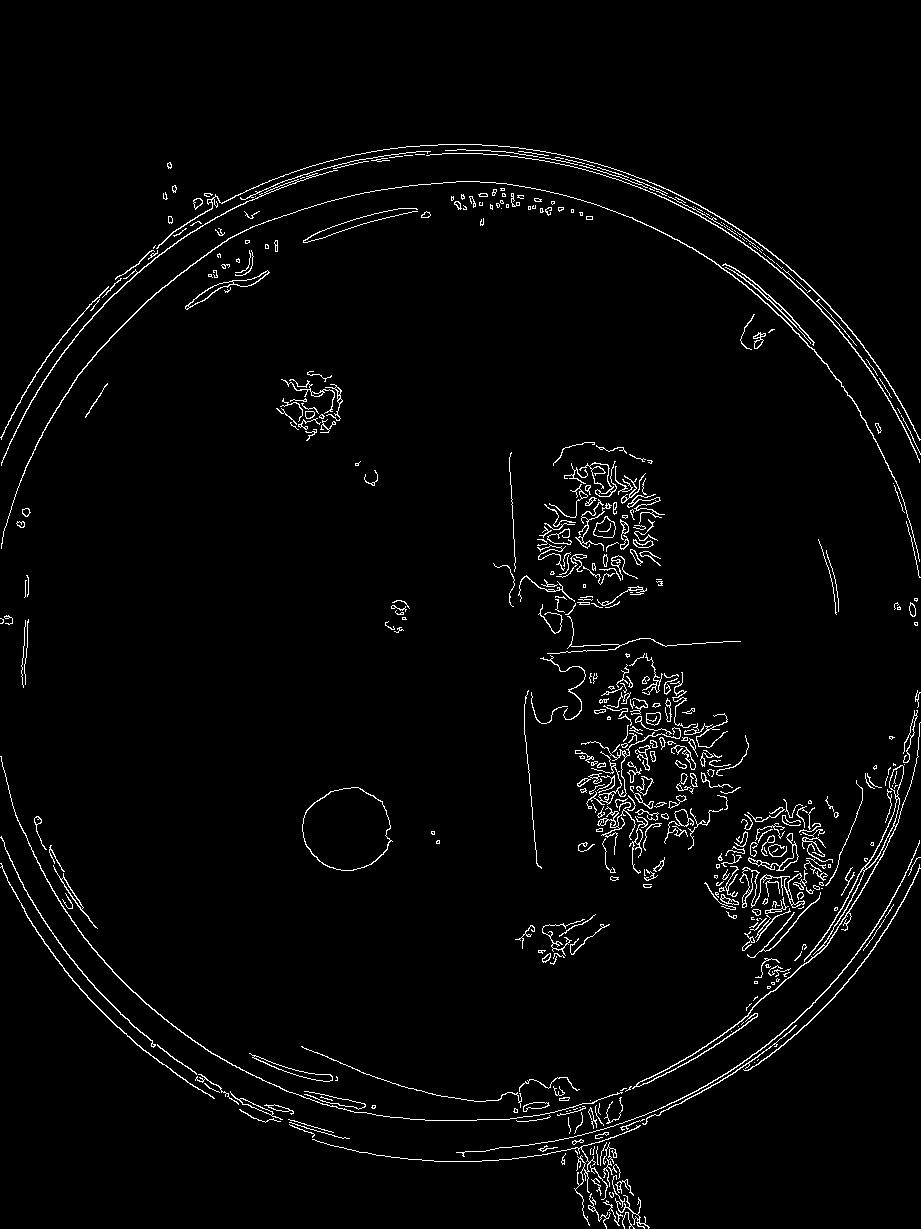
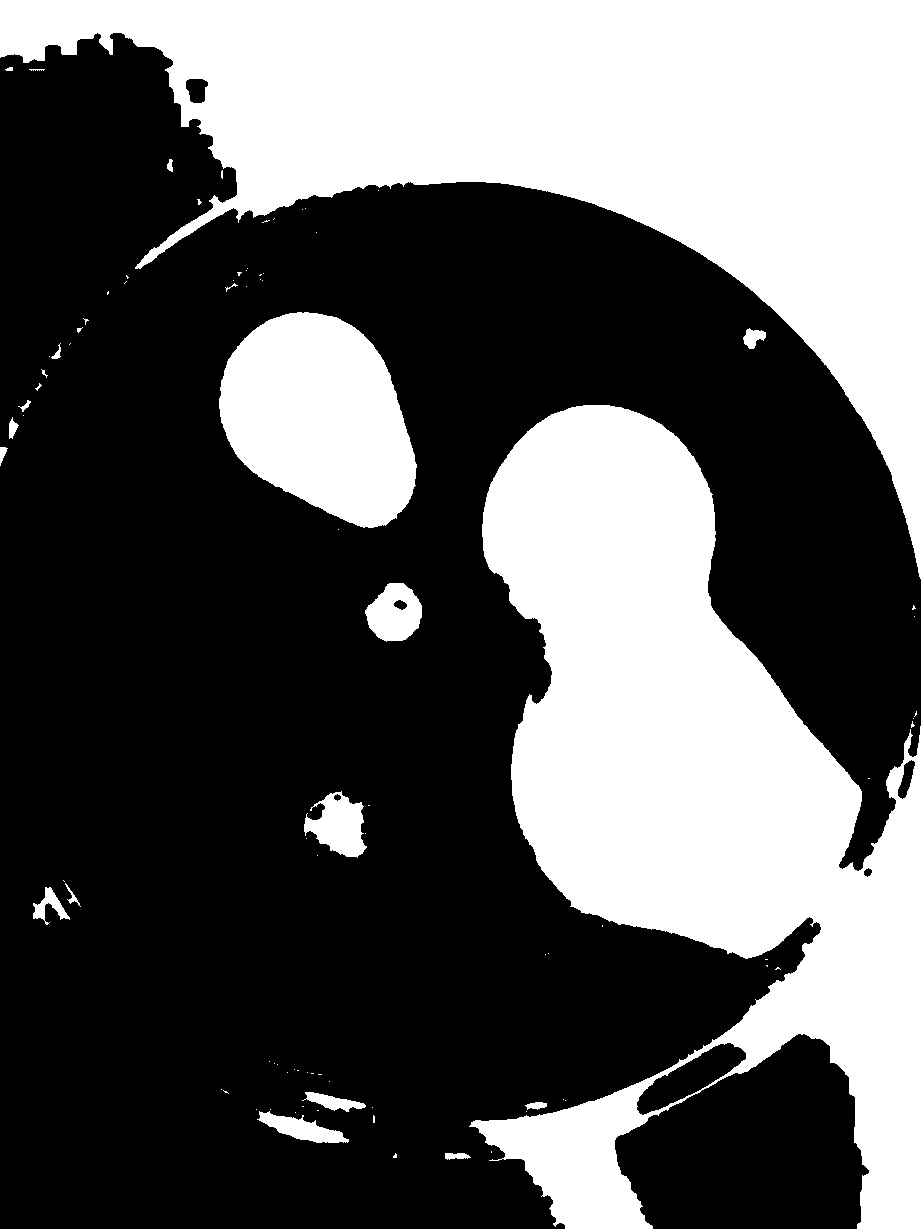
Trial 3 Colony Detection

diff --git a/main.py b/main.py
@@ -65,21 +65,29 @@ filtered = cv2.GaussianBlur(gray, (5, 5), 0)
 cv2.imwrite(os.path.join(output_dir, '5_filtered.jpg'), filtered)
 
 # ---------------------------------------------------------
-# STEP 6: Perform Canny Edge Detection 
+# STEP 6: Color-Based Segmentation (HSV Thresholding)
 # ---------------------------------------------------------
-#Canny detects edges using low (50) and high (150) hysteresis thresholds
-edges = cv2.Canny(filtered, 30, 100)
+# Define lower and upper HSV bounds for the yellowish/orange fungal growth
+# Saturation (middle value) starts at 20 to ignore grayscale/white glass glare
+lower_colony_color = np.array([0, 20, 80])
+upper_colony_color = np.array([180, 255, 255])
 
-#Save output 6: canny edges
-cv2.imwrite(os.path.join(output_dir, '6_canny_edges.jpg'), edges)
+# Generate binary mask: white pixels represent colonies, black represents agar
+colony_mask = cv2.inRange(hsv, lower_colony_color, upper_colony_color)
+
+# Apply Morphological Closing to weld internal texture gaps into solid shapes
+kernel = cv2.getStructuringElement(cv2.MORPH_ELLIPSE, (7, 7))
+cleaned_mask = cv2.morphologyEx(colony_mask, cv2.MORPH_CLOSE, kernel)
+
+# Save mask output to fulfill file requirement #6
+cv2.imwrite(os.path.join(output_dir, '6_canny_edges.jpg'), cleaned_mask)
 
 # ---------------------------------------------------------
 # STEP 7: Extract and Draw Contours
 # ---------------------------------------------------------
-# findContours locates continuous boundary points along Canny edges
-contours, _ = cv2.findContours(edges, cv2.RETR_EXTERNAL, cv2.CHAIN_APPROX_SIMPLE)
+# Find contours using the clean color mask instead of Canny edges
+contours, _ = cv2.findContours(cleaned_mask, cv2.RETR_EXTERNAL, cv2.CHAIN_APPROX_SIMPLE)
 
-#Save output 6: canny edges
 contour_img = cropped.copy()
 cv2.drawContours(contour_img, contours, -1, (0, 255, 0), 2)
 cv2.imwrite(os.path.join(output_dir, '7_contours.jpg'), contour_img)
@@ -95,10 +103,10 @@ print("\n================ GEOMETRIC ANALYSIS RESULTS ================")
 # ---------------------------------------------------------
 # STEP 8a: Hough Line Detection
 # ---------------------------------------------------------
-lines = cv2.HoughLinesP(edges, 1, np.pi/180, threshold = 100, minLineLength = 50, maxLineGap = 10)
+lines = cv2.HoughLinesP(cleaned_mask, 1, np.pi/180, threshold = 100, minLineLength = 50, maxLineGap = 10)
 if lines is not None:   
     for l in lines[:5]:  # Draw first 5 lines in red
-        x1, y1, x2, y2 = l 
+        x1, y1, x2, y2 = l.ravel()
         # Convert values to standard integers for cv2.line
         x1, y1, x2, y2 = int(x1), int(y1), int(x2), int(y2)
         cv2.line(final_img, (x1, y1), (x2, y2), (0, 0, 255), 2)  
@@ -107,7 +115,7 @@ if lines is not None:
 # ---------------------------------------------------------
 # STEP 8b: Hough Circle Detection
 # --------------------------------------------------------- 
-circles = cv2.HoughCircles(filtered, cv2.HOUGH_GRADIENT, dp=1.2, minDist=100, param1=50, param2=30, minRadius=50, maxRadius=400)   
+circles = cv2.HoughCircles(filtered, cv2.HOUGH_GRADIENT, dp=1.2, minDist=100, param1=50, param2=30, minRadius=200, maxRadius=450)
 if circles is not None:   
     circles = np.uint16(np.around(circles))  # Convert circle values to integers
     for c in circles[0, :3]:  # Draw top 3 detected circles in yellow
@@ -121,7 +129,7 @@ valid_colony_count = 0
 
 for i, cnt in enumerate(contours): #Loop through every detected contour 
     area = cv2.contourArea(cnt) #Calculate area in pixels
-    if area < 800 or area > 50000: #Filter out small noise artifacts
+    if area < 400 or area > 300000: #Filter out small noise artifacts
         continue
 
     valid_colony_count += 1
